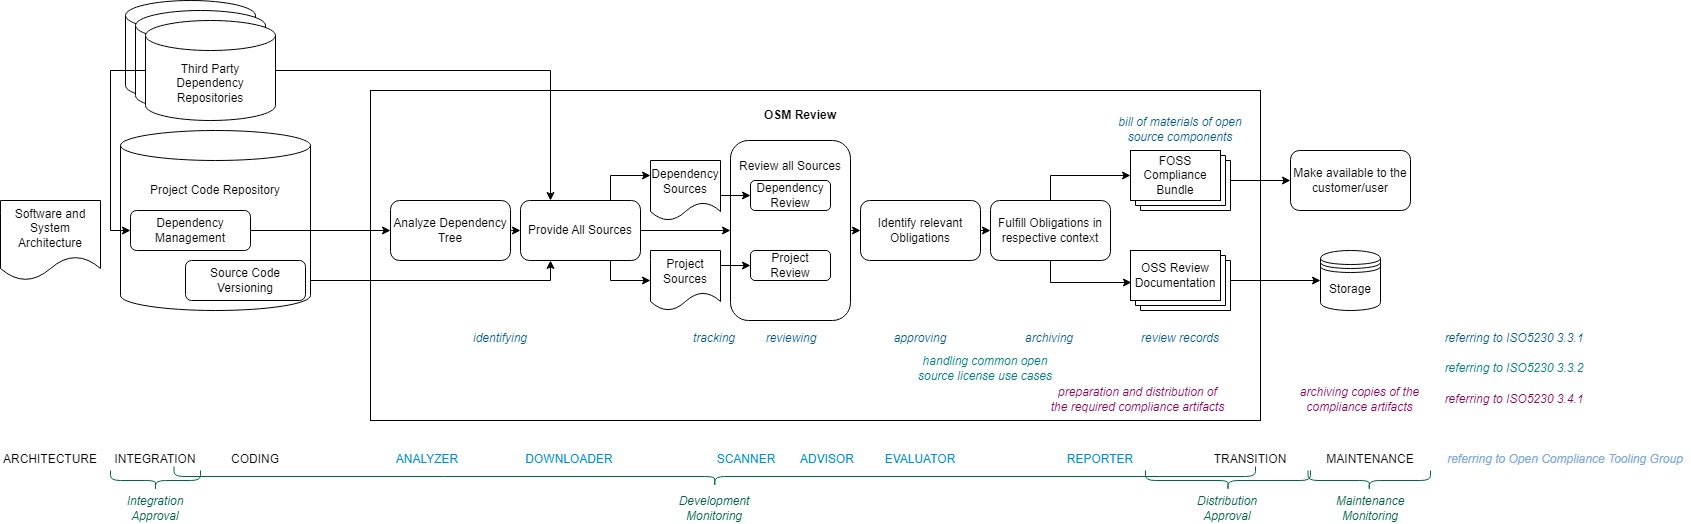
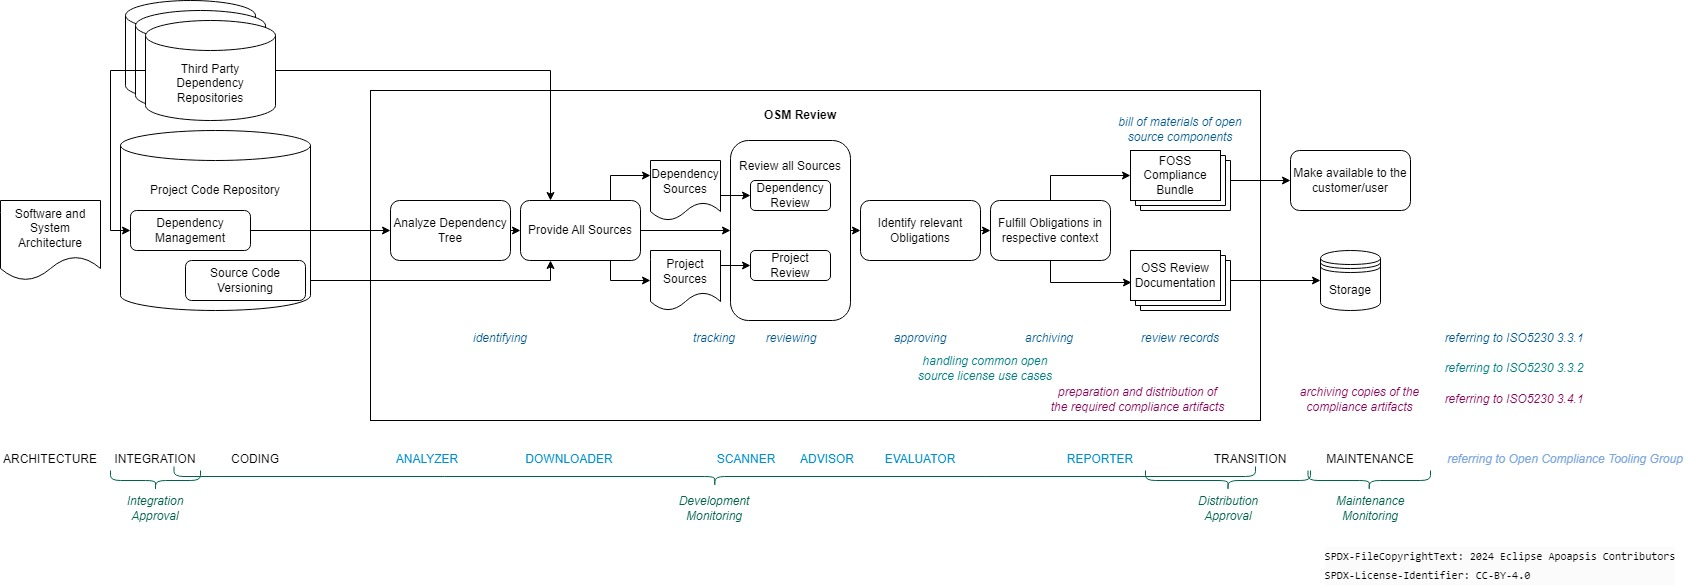
updated copyright and license info in the files

diff --git a/website/docs/part_B_software_management/sw_management_product/blueprints/component_lifecycle_process.md b/website/docs/part_B_software_management/sw_management_product/blueprints/component_lifecycle_process.md
@@ -1,4 +1,7 @@
 # Software Component Lifecycle Process
+[//]: # (SPDX-FileCopyrightText: 2024 Eclipse Apoapsis Contributors)  
+[//]: # (SPDX-License-Identifier: CC-BY-4.0)  
+
 *This document is a template for a process description and needs to be adapted to a specific organization before usage. Especially the parts put in angle brackets "< >".*
 
 # Process Objectives
